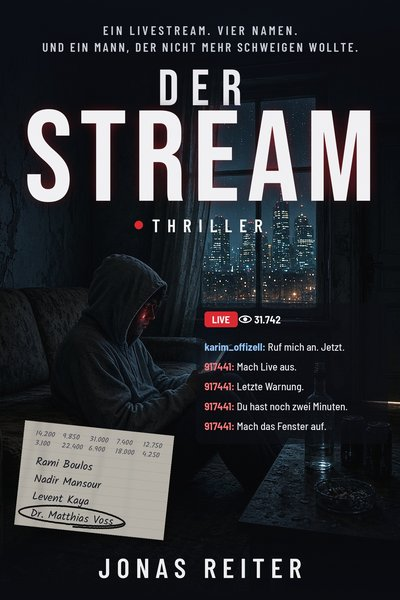
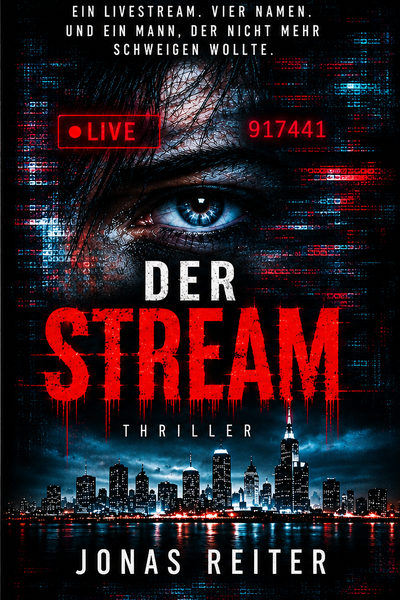
Richtiges Cover

diff --git a/index.html b/index.html
@@ -71,7 +71,7 @@
         <div class="cover-frame">
           <picture>
             <source type="image/webp" srcset="img/cover-400.webp 400w, img/cover-800.webp 800w, img/cover-1200.webp 1200w" sizes="(max-width: 859px) 280px, 400px">
-            <img src="img/cover-800.jpg" srcset="img/cover-400.jpg 400w, img/cover-800.jpg 800w, img/cover-1200.jpg 1200w" sizes="(max-width: 859px) 280px, 400px" width="800" height="1200" alt="Cover des Thrillers Der Stream von Jonas Reiter: ein Mann in einem dunklen Zimmer vor einem Livestream.">
+            <img src="img/cover-800.jpg" srcset="img/cover-400.jpg 400w, img/cover-800.jpg 800w, img/cover-1200.jpg 1200w" sizes="(max-width: 859px) 280px, 400px" width="800" height="1200" alt="Cover des Thrillers Der Stream von Jonas Reiter: ein Auge, der Schriftzug DER STREAM und eine Skyline bei Nacht.">
           </picture>
         </div>
         <div class="hero-copy">
